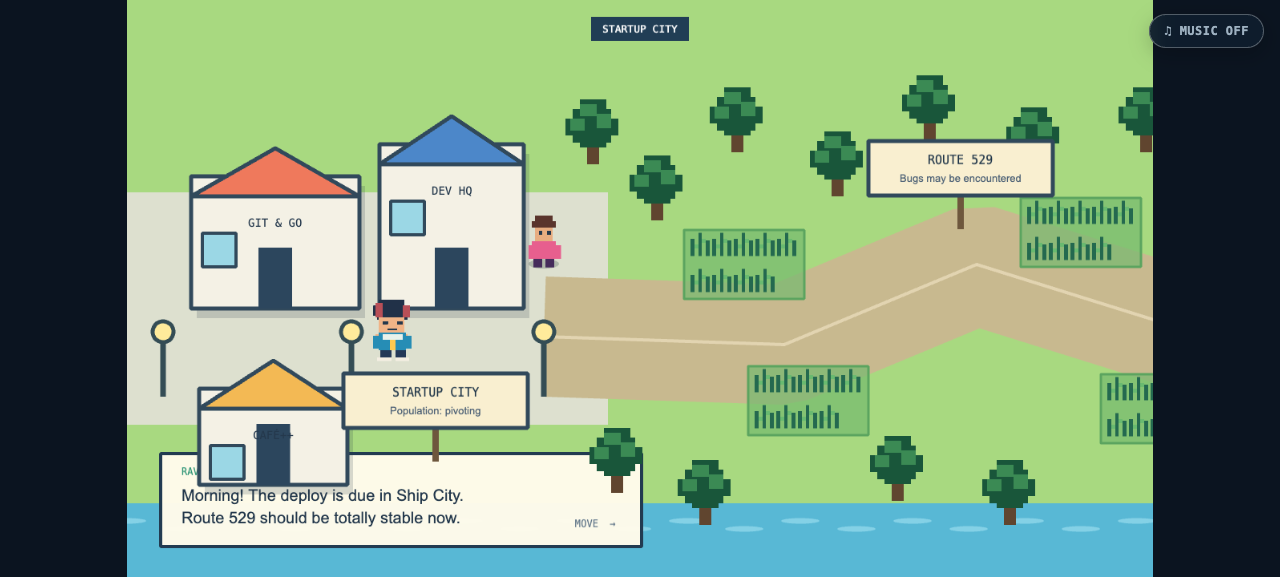
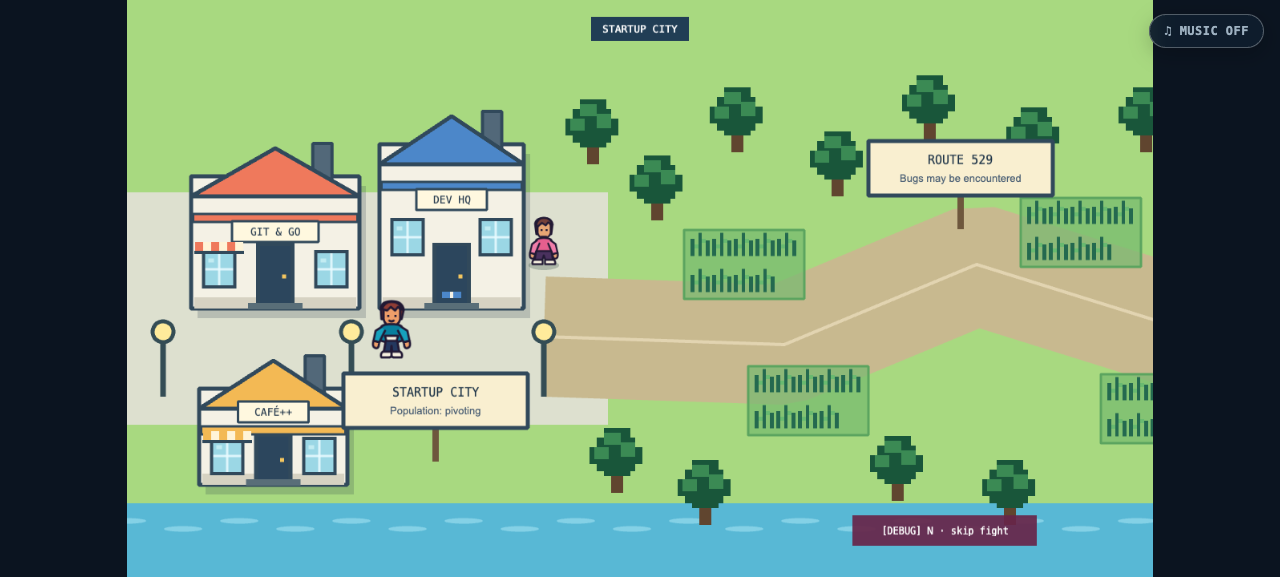
Unify battle and overworld sprite art

diff --git a/sw-rpg/src/main.ts b/sw-rpg/src/main.ts
@@ -239,56 +239,15 @@ function addPill(scene: Phaser.Scene, x: number, y: number, label: string, fill:
   return [bg, text];
 }
 
+function setImageHeight(image: Phaser.GameObjects.Image, height: number) {
+  const source = image.texture.getSourceImage() as HTMLImageElement;
+  return image.setScale(height / source.height);
+}
+
 function createTextures(scene: Phaser.Scene) {
-  if (scene.textures.exists('hero-down')) return;
+  if (scene.textures.exists('tree')) return;
   const g = scene.add.graphics();
-  // All overworld character art is authored on a tiny grid, then nearest-neighbor scaled.
-  // Maya, facing the camera (28 × 36).
-  g.fillStyle(0x213148).fillRect(7, 2, 14, 3).fillRect(4, 5, 20, 6).fillRect(6, 10, 17, 3);
-  g.fillStyle(0xb84f57).fillRect(5, 4, 4, 8).fillRect(20, 5, 4, 7);
-  g.fillStyle(0xf0b487).fillRect(7, 12, 14, 8).fillRect(5, 21, 3, 8).fillRect(20, 21, 3, 8);
-  g.fillStyle(0x25384c).fillRect(9, 14, 3, 2).fillRect(17, 14, 3, 2).fillRect(12, 18, 5, 1);
-  g.fillStyle(0x268db5).fillRect(7, 20, 15, 10).fillRect(4, 22, 4, 7).fillRect(21, 22, 4, 7);
-  g.fillStyle(0xe8f2eb).fillRect(9, 21, 11, 3);
-  g.fillStyle(0xffca4f).fillRect(13, 24, 3, 6);
-  g.fillStyle(0x243958).fillRect(8, 30, 6, 5).fillRect(16, 30, 6, 5);
-  g.fillStyle(0xf4eee2).fillRect(6, 34, 8, 2).fillRect(16, 34, 8, 2);
-  g.generateTexture('hero-down', 28, 36); g.clear();
-  // Maya, rear view. This echoes the battle stance without battle-level detail.
-  g.fillStyle(0x213148).fillRect(7, 2, 14, 3).fillRect(4, 5, 20, 8).fillRect(6, 11, 17, 3);
-  g.fillStyle(0xb84f57).fillRect(5, 4, 4, 9).fillRect(20, 5, 4, 8);
-  g.fillStyle(0xf0b487).fillRect(5, 21, 3, 8).fillRect(20, 21, 3, 8);
-  g.fillStyle(0x268db5).fillRect(7, 14, 15, 16).fillRect(4, 20, 4, 9).fillRect(21, 20, 4, 9);
-  g.fillStyle(0x175d82).fillRect(10, 17, 9, 7).fillRect(12, 19, 5, 2);
-  g.fillStyle(0xe8f2eb).fillRect(8, 14, 13, 3);
-  g.fillStyle(0xffca4f).fillRect(13, 24, 3, 6);
-  g.fillStyle(0x243958).fillRect(8, 30, 6, 5).fillRect(16, 30, 6, 5);
-  g.fillStyle(0xf4eee2).fillRect(6, 34, 8, 2).fillRect(16, 34, 8, 2);
-  g.generateTexture('hero-up', 28, 36); g.clear();
-  // Maya, side-on (28 × 36).
-  g.fillStyle(0xb84f57).fillRect(8, 3, 13, 9).fillRect(6, 6, 5, 9);
-  g.fillStyle(0xf0b487).fillRect(11, 10, 11, 10).fillRect(21, 13, 3, 4).fillRect(7, 22, 3, 8);
-  g.fillStyle(0x24384d).fillRect(19, 13, 2, 2);
-  g.fillStyle(0x268db5).fillRect(9, 20, 13, 10).fillRect(6, 22, 5, 8);
-  g.fillStyle(0xe8f2eb).fillRect(12, 21, 10, 3);
-  g.fillStyle(0xffca4f).fillRect(11, 25, 3, 5);
-  g.fillStyle(0x243958).fillRect(10, 30, 5, 5).fillRect(18, 30, 6, 5);
-  g.fillStyle(0xf4eee2).fillRect(8, 34, 7, 2).fillRect(18, 34, 8, 2);
-  g.generateTexture('hero-side', 28, 36); g.clear();
-  // Small but expressive route NPCs.
-  g.fillStyle(0x5a352c).fillRect(5, 1, 10, 5).fillRect(3, 4, 14, 4);
-  g.fillStyle(0xe7ad80).fillRect(5, 8, 10, 8);
-  g.fillStyle(0x25384c).fillRect(7, 10, 2, 2).fillRect(12, 10, 2, 2);
-  g.fillStyle(0xe75f8e).fillRect(3, 16, 14, 10).fillRect(1, 18, 3, 8).fillRect(17, 18, 3, 8);
-  g.fillStyle(0x452c5b).fillRect(4, 26, 5, 5).fillRect(11, 26, 5, 5);
-  g.generateTexture('npc-intern', 20, 31); g.clear();
-  g.fillStyle(0x372b46).fillRect(4, 1, 13, 5).fillRect(2, 5, 16, 5);
-  g.fillStyle(0xb97858).fillRect(5, 9, 10, 8);
-  g.fillStyle(0x25384c).fillRect(7, 11, 2, 2).fillRect(12, 11, 2, 2);
-  g.fillStyle(0x6f58c9).fillRect(3, 17, 14, 10).fillRect(1, 19, 3, 8).fillRect(17, 19, 3, 8);
-  g.fillStyle(0xf4f0e3).fillRect(7, 18, 6, 7);
-  g.fillStyle(0x253858).fillRect(4, 27, 5, 4).fillRect(11, 27, 5, 4);
-  g.generateTexture('npc-alex', 20, 31); g.clear();
+  // Compact map props stay on a tiny nearest-neighbor grid; characters use smooth SVG art.
   // Tree (24 × 30).
   g.fillStyle(0x60452f).fillRect(10, 19, 5, 11);
   g.fillStyle(0x19563a).fillRect(4, 7, 16, 14).fillRect(7, 3, 11, 20).fillRect(1, 11, 22, 7);
@@ -297,49 +256,8 @@ function createTextures(scene: Phaser.Scene) {
   // Tall-code tuft (12 × 12).
   g.fillStyle(0x24694f).fillRect(1, 3, 2, 9).fillRect(5, 0, 2, 12).fillRect(9, 4, 2, 8);
   g.fillStyle(0x69ba70).fillRect(3, 6, 2, 2).fillRect(7, 3, 2, 2);
-  g.generateTexture('grass', 12, 12); g.clear();
-  // Maya's battle backsprite (48 × 52).
-  g.fillStyle(0x183047).fillRect(9, 44, 28, 8);
-  g.fillStyle(0x253e5d).fillRect(14, 31, 22, 16);
-  g.fillStyle(0x2c9ec2).fillRect(5, 20, 35, 20).fillRect(9, 15, 27, 8);
-  g.fillStyle(0xd9976e).fillRect(14, 5, 20, 16).fillRect(17, 21, 14, 3);
-  g.fillStyle(0x30283a).fillRect(11, 2, 25, 8).fillRect(10, 7, 7, 8).fillRect(32, 7, 5, 6);
-  g.fillStyle(0xe9f1f2).fillRect(27, 25, 20, 16);
-  g.fillStyle(0x315f79).fillRect(34, 31, 7, 3);
-  g.generateTexture('dev-back', 48, 52); g.clear();
-  // Inez's battle backsprite (48 × 52).
-  g.fillStyle(0x312b46).fillRect(9, 44, 28, 8);
-  g.fillStyle(0x4d365f).fillRect(14, 31, 22, 16);
-  g.fillStyle(0xd65f8c).fillRect(5, 20, 35, 20).fillRect(9, 15, 27, 8);
-  g.fillStyle(0xb97455).fillRect(14, 5, 20, 16).fillRect(17, 21, 14, 3);
-  g.fillStyle(0x211d2f).fillRect(10, 1, 27, 8).fillRect(8, 6, 8, 15).fillRect(33, 6, 6, 15);
-  g.fillStyle(0xf5f0dc).fillRect(27, 25, 20, 16);
-  g.fillStyle(0xc24d77).fillRect(34, 31, 7, 3);
-  g.generateTexture('inez-back', 48, 52); g.clear();
-  // Null Pointer (40 × 40).
-  g.fillStyle(0x28384a).fillRect(4, 3, 8, 8).fillRect(28, 3, 8, 8).fillRect(5, 13, 30, 23).fillRect(10, 8, 20, 30);
-  g.fillStyle(0xffd35c).fillRect(6, 5, 5, 6).fillRect(29, 5, 5, 6);
-  g.fillStyle(0xf05b4f).fillRect(8, 14, 24, 21).fillRect(12, 10, 16, 27);
-  g.fillStyle(0xffffff).fillRect(12, 18, 5, 5).fillRect(24, 18, 5, 5);
-  g.fillStyle(0x172436).fillRect(14, 20, 2, 2).fillRect(25, 20, 2, 2).fillRect(15, 29, 10, 2);
-  g.generateTexture('enemy-0', 40, 40); g.clear();
-  // Memory Leak (44 × 40).
-  g.fillStyle(0x342c57).fillRect(3, 19, 38, 17).fillRect(7, 10, 30, 28).fillRect(13, 5, 20, 34);
-  g.fillStyle(0x8d63d2).fillRect(5, 20, 34, 15).fillRect(9, 11, 26, 25).fillRect(15, 7, 16, 30);
-  g.fillStyle(0xa779e8).fillRect(9, 15, 8, 8).fillRect(17, 9, 12, 5);
-  g.fillStyle(0xffffff).fillRect(12, 19, 6, 6).fillRect(27, 19, 6, 6);
-  g.fillStyle(0x273247).fillRect(14, 21, 3, 3).fillRect(28, 21, 3, 3).fillRect(18, 30, 10, 2);
-  g.fillStyle(0x7553bd).fillRect(6, 35, 8, 5).fillRect(31, 34, 9, 6);
-  g.generateTexture('enemy-1', 44, 40); g.clear();
-  // One Tiny Change (48 × 44).
-  g.fillStyle(0x1d3554).fillRect(6, 13, 36, 28).fillRect(2, 5, 14, 13).fillRect(17, 1, 16, 15).fillRect(34, 7, 13, 14);
-  g.fillStyle(0x3977cd).fillRect(8, 15, 32, 24);
-  g.fillStyle(0xffffff).fillRect(4, 7, 10, 9).fillRect(19, 3, 12, 10).fillRect(36, 9, 9, 10).fillRect(13, 21, 6, 6).fillRect(29, 21, 6, 6);
-  g.fillStyle(0xe45555).fillRect(7, 10, 5, 2).fillRect(22, 7, 6, 2).fillRect(38, 12, 5, 2);
-  g.fillStyle(0xdbeaff).fillRect(16, 33, 16, 2);
-  g.generateTexture('enemy-2', 48, 44); g.destroy();
-  ['hero-down', 'hero-up', 'hero-side', 'npc-intern', 'npc-alex', 'tree', 'grass', 'dev-back', 'inez-back', 'enemy-0', 'enemy-1', 'enemy-2']
-    .forEach(key => scene.textures.get(key).setFilter(Phaser.Textures.FilterMode.NEAREST));
+  g.generateTexture('grass', 12, 12); g.destroy();
+  ['tree', 'grass'].forEach(key => scene.textures.get(key).setFilter(Phaser.Textures.FilterMode.NEAREST));
 }
 
 class WorldScene extends Phaser.Scene {
@@ -351,13 +269,26 @@ class WorldScene extends Phaser.Scene {
 
   constructor() { super('WorldScene'); }
 
+  preload() {
+    const sprites = {
+      'hero-down': 'maya-front.svg',
+      'hero-up': 'maya-back.svg',
+      'hero-side': 'maya-side.svg',
+      'npc-intern': 'intern.svg',
+      'npc-alex': 'alex.svg'
+    };
+    Object.entries(sprites).forEach(([key, file]) => this.load.svg(key, assetUrl(`assets/overworld/${file}`)));
+  }
+
   create() {
     createTextures(this);
+    ['hero-down', 'hero-up', 'hero-side', 'npc-intern', 'npc-alex']
+      .forEach(key => this.textures.get(key).setFilter(Phaser.Textures.FilterMode.LINEAR));
     audio.setTheme('overworld');
     state.phase = 'overworld'; setStatus('Exploring Route 529. Use arrow keys or WASD to move east.');
     this.physics.world.setBounds(0, 0, 2400, H);
     this.drawMap();
-    this.player = this.physics.add.sprite(330, 410, 'hero-down').setScale(2.25).setCollideWorldBounds(true).setDepth(30).setSize(17, 15).setOffset(5, 18);
+    this.player = this.physics.add.sprite(330, 410, 'hero-down').setScale(.9).setCollideWorldBounds(true).setDepth(30).setSize(30, 20).setOffset(17, 62);
     this.player.setPosition(state.completed[2] ? 1990 : state.completed[1] ? 1460 : state.completed[0] ? 1010 : 330, 410);
     this.cameras.main.setBounds(0, 0, 2400, H).startFollow(this.player, true, 0.09, 0.09).setZoom(1);
     const keyboard = this.input.keyboard!;
@@ -474,8 +405,8 @@ class WorldScene extends Phaser.Scene {
 
   private npc(x: number, y: number, _color: number, id: string) {
     const c = this.add.container(x, y).setDepth(y);
-    const shadow = this.add.ellipse(0, 27, 38, 12, 0x1d3a35, .25);
-    const sprite = this.add.image(0, -2, `npc-${id}`).setScale(2.15);
+    const shadow = this.add.ellipse(0, 29, 38, 12, 0x1d3a35, .25);
+    const sprite = this.add.image(0, -2, `npc-${id}`).setScale(.78);
     c.add([shadow, sprite]).setData('id', id);
     this.tweens.add({ targets: c, y: y - 3, duration: 900, yoyo: true, repeat: -1, ease: 'Sine.inOut' });
   }
@@ -604,7 +535,7 @@ class BattleScene extends Phaser.Scene {
     this.enemyHp = this.foe.maxHp;
     state.phase = 'battle'; setStatus(this.encounter.intro.replace('\n', ' '));
     ['maya', 'inez', 'alex', 'null-pointer', 'memory-leak', 'quick-question', 'one-tiny-change']
-      .forEach(name => this.textures.get(`battle-${name}`).setFilter(Phaser.Textures.FilterMode.NEAREST));
+      .forEach(name => this.textures.get(`battle-${name}`).setFilter(Phaser.Textures.FilterMode.LINEAR));
     this.drawArena();
     this.drawCombatants();
     this.drawHud();
@@ -641,8 +572,10 @@ class BattleScene extends Phaser.Scene {
 
   private drawCombatants() {
     this.add.ellipse(270, 494, 225, 42, 0x315f4d, .24).setDepth(7);
-    this.playerSprite = this.add.image(270, 358, `battle-${partyMembers[state.activeMember].name.toLowerCase()}`)
-      .setDisplaySize(state.activeMember === 0 ? 234 : 184, 360).setDepth(10);
+    this.playerSprite = setImageHeight(
+      this.add.image(270, 358, `battle-${partyMembers[state.activeMember].name.toLowerCase()}`),
+      360
+    ).setDepth(10);
     this.tweens.add({ targets: this.playerSprite, y: 352, duration: 1050, yoyo: true, repeat: -1, ease: 'Sine.inOut' });
     if (this.encounter.trainer) this.showTrainer();
   }
@@ -663,7 +596,7 @@ class BattleScene extends Phaser.Scene {
     const trainer = this.encounter.trainer;
     if (!trainer) return;
     this.trainerArt?.destroy();
-    this.trainerArt = this.add.image(970, 265, `battle-${trainer.asset}`).setDisplaySize(170, 380).setDepth(9).setAlpha(0);
+    this.trainerArt = setImageHeight(this.add.image(970, 265, `battle-${trainer.asset}`), 380).setDepth(9).setAlpha(0);
     this.tweens.add({ targets: this.trainerArt, x: 950, alpha: 1, duration: 420, ease: 'Cubic.out' });
   }
 
@@ -729,7 +662,7 @@ class BattleScene extends Phaser.Scene {
     const hp = state.partyHp[state.activeMember];
     this.memberName.setText(member.name);
     this.memberRole.setText(member.role);
-    this.playerSprite.setTexture(`battle-${member.name.toLowerCase()}`).setDisplaySize(state.activeMember === 0 ? 234 : 184, 360);
+    setImageHeight(this.playerSprite.setTexture(`battle-${member.name.toLowerCase()}`), 360);
     this.playerBar.setDisplaySize(330 * (hp / 100), 16).setFillStyle(hp < 35 ? 0xf05b4f : hp < 60 ? 0xf0ae4c : 0x48c590);
     this.hpText.setText(`${hp}/100`);
     this.partyGroup.removeAll(true);
